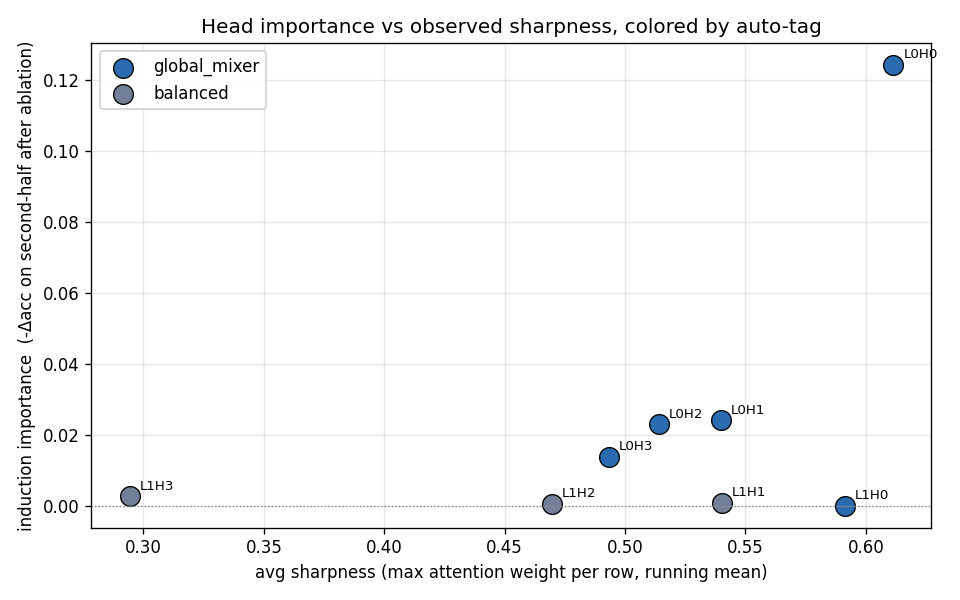
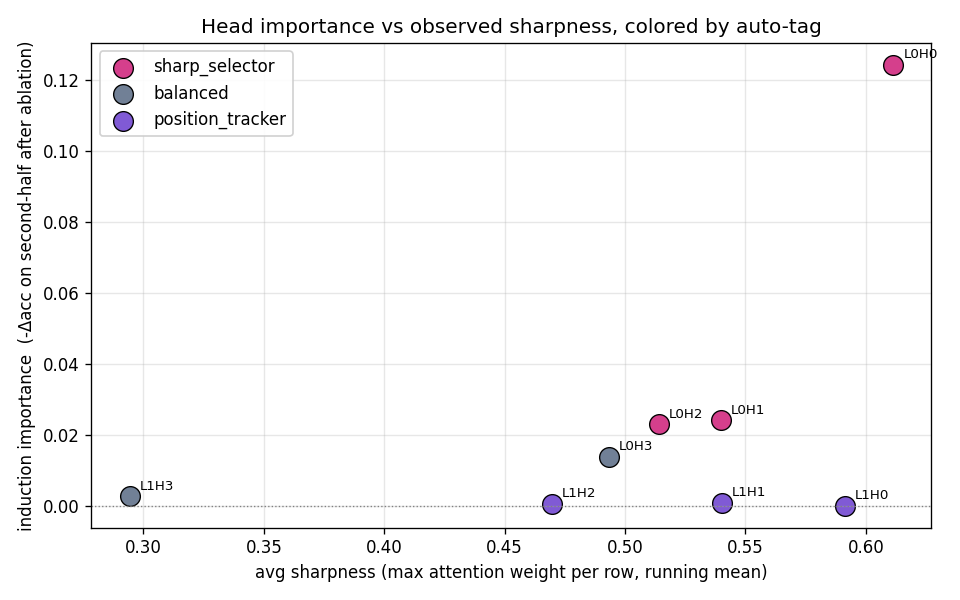
Recalibrate HeadMemory tagging: rolling stats + normalized entropy
The previous head-tagging validation (commits cf012ca, 2bf9d5c) showed the
tags didn't track head function: the most unambiguous induction head
(L0H0, 89.6% attention-target alignment, 12.4% ablation impact) was
labeled 'global_mixer'. Four calibration fixes to HeadMemory, all in
workbench/core/inspectable_transformer.py:

1. Final tag is recomputed each forward from rolling-window stats
   (avg_entropy, avg_sharpness over maxlen=100 deques) instead of from
   append-only per-forward vote counts. A head that specializes late is
   no longer anchored to its early-training label.

2. Entropy is normalized by log(seq_len) where known. Tag thresholds
   previously compared absolute entropy to hardcoded constants (e.g.
   global_mixer at entropy > 2.5), which is loose for short sequences
   (log(49) ~ 3.9 -> much too easy to trigger) and strict for long ones.

3. sharp_selector threshold lowered from 0.8 to 0.5. Real trained heads
   on small models peak around 0.5-0.7 sharpness; 0.8 was only reachable
   by near-one-hot heads and never fired in practice.

4. Landmark detection uses a new top1_history deque. A head is tagged
   position_tracker when its #1 attended key is the same specific
   position in >50% of recent forwards. The previous rule compared the
   max position count to total top-K hits, which was polluted by
   position 0 (attended early by every first-half query in a causal
   model).

Re-running the ablation protocol on the same task, same seed, same
[…]

diff --git a/workbench/core/inspectable_transformer.py b/workbench/core/inspectable_transformer.py
@@ -88,43 +88,124 @@ class HeadMemory:
         # Rolling statistics
         self.entropy_history = deque(maxlen=window)
         self.sharpness_history = deque(maxlen=window)
+        # Rolling history of the #1 attended key per forward. This is what
+        # distinguishes a landmark head ("always keys=23") from one whose peak
+        # moves per input. position_counts records top-K hits for snapshot
+        # display, but tag decisions use top1_history.
+        self.top1_history = deque(maxlen=window)
         self.position_counts = {}  # position -> count (what does this head attend to?)
         self.total_forwards = 0
 
         # Tag assignment
         self._tag_scores = {}  # candidate_tag -> evidence score
 
-    def record(self, entropy: float, sharpness: float, top_positions: list):
-        """Record one forward pass observation."""
+    def record(self, entropy: float, sharpness: float, top_positions: list,
+               seq_len: int = None):
+        """Record one forward pass observation.
+
+        `seq_len` is the sequence length for the current forward pass. When
+        provided, entropy is normalized by log(seq_len) so tag thresholds are
+        scale-invariant across sequence lengths.
+        """
         self.total_forwards += 1
         self.entropy_history.append(entropy)
         self.sharpness_history.append(sharpness)
+        if top_positions:
+            self.top1_history.append(top_positions[0])
         for pos in top_positions:
             self.position_counts[pos] = self.position_counts.get(pos, 0) + 1
 
-        # Auto-tag based on behavior patterns
-        self._update_tag(entropy, sharpness, top_positions)
+        # Maintain a running vote of instantaneous tag firings for introspection.
+        # The final self.tag is recomputed from rolling-window stats below, so
+        # a head that specializes late isn't stuck with its early label.
+        self._update_tag_scores(entropy, sharpness, top_positions, seq_len)
 
-    def _update_tag(self, entropy, sharpness, top_positions):
-        """Assign a semantic tag based on observed behavior."""
-        # Position head: consistently attends to specific absolute positions
+        if self.total_forwards >= 10:
+            self.tag = self._compute_tag(seq_len)
+
+    def _update_tag_scores(self, entropy, sharpness, top_positions, seq_len):
+        """Running tally of per-forward tag firings (kept for snapshot). The
+        final tag is derived from rolling-window stats, not these counts."""
+        if seq_len and seq_len > 1:
+            max_ent = math.log(seq_len)
+            norm_ent = entropy / max_ent if max_ent > 0 else 0.0
+        else:
+            # Backward-compat path: fall back to the old absolute thresholds
+            max_ent = None
+            norm_ent = None
+
+        # Landmark head: this forward's top positions concentrate on 1-2 keys
         if top_positions and len(set(top_positions)) <= 2:
             self._tag_scores["position_tracker"] = self._tag_scores.get("position_tracker", 0) + 1
-        # Local head: attends to nearby positions (low entropy, diagonal pattern)
-        if entropy < 1.0 and sharpness > 0.5:
-            self._tag_scores["local_focus"] = self._tag_scores.get("local_focus", 0) + 1
-        # Global head: spreads attention broadly (high entropy)
-        if entropy > 2.5:
-            self._tag_scores["global_mixer"] = self._tag_scores.get("global_mixer", 0) + 1
-        # Sharp head: focuses on one position (very high sharpness)
-        if sharpness > 0.8:
+        # Local head: low entropy + some sharpness
+        if norm_ent is not None:
+            if norm_ent < 0.3 and sharpness > 0.3:
+                self._tag_scores["local_focus"] = self._tag_scores.get("local_focus", 0) + 1
+            if norm_ent > 0.85:
+                self._tag_scores["global_mixer"] = self._tag_scores.get("global_mixer", 0) + 1
+            if 0.3 <= norm_ent <= 0.85 and sharpness <= 0.5:
+                self._tag_scores["balanced"] = self._tag_scores.get("balanced", 0) + 1
+        else:
+            if entropy < 1.0 and sharpness > 0.5:
+                self._tag_scores["local_focus"] = self._tag_scores.get("local_focus", 0) + 1
+            if entropy > 2.5:
+                self._tag_scores["global_mixer"] = self._tag_scores.get("global_mixer", 0) + 1
+            if 1.0 <= entropy <= 2.5:
+                self._tag_scores["balanced"] = self._tag_scores.get("balanced", 0) + 1
+        # Sharp head: concentrated attention per query
+        if sharpness > 0.5:
             self._tag_scores["sharp_selector"] = self._tag_scores.get("sharp_selector", 0) + 1
-        # Balanced head: moderate entropy
-        if 1.0 <= entropy <= 2.5:
-            self._tag_scores["balanced"] = self._tag_scores.get("balanced", 0) + 1
 
-        if self.total_forwards >= 10 and self._tag_scores:
-            self.tag = max(self._tag_scores, key=self._tag_scores.get)
+    def _compute_tag(self, seq_len):
+        """Derive the tag from current rolling-window stats.
+
+        Precedence, high to low:
+          1. position_tracker -- persistent landmark: the single most-attended
+             absolute position has captured >50% of attention hits.
+          2. sharp_selector   -- avg sharpness > 0.5 and the head isn't just
+             staring at one landmark. Catches induction / copy / content-match
+             heads that peak hard but at varying targets.
+          3. local_focus      -- low normalized entropy + modest sharpness.
+          4. global_mixer     -- near-uniform attention across keys.
+          5. balanced         -- everything else.
+        """
+        avg_ent = self.avg_entropy
+        avg_sharp = self.avg_sharpness
+        if seq_len and seq_len > 1:
+            max_ent = math.log(seq_len)
+            norm_ent = avg_ent / max_ent if max_ent > 0 else 0.0
+        else:
+            norm_ent = None
+
+        # Landmark: the head's #1-attended key is the same specific position
+        # in the majority of recent forwards, regardless of input. This
+        # distinguishes a "stare at position 23" head from an induction head
+        # whose peak is sharp but moves per input.
+        if self.top1_history:
+            # Mode of top1_history and how often it appears
+            mode_pos = max(set(self.top1_history), key=self.top1_history.count)
+            mode_frac = self.top1_history.count(mode_pos) / len(self.top1_history)
+            if mode_frac > 0.5:
+                return "position_tracker"
+
+        # Sharp: peaky per-query attention (target moves, but is focused)
+        if avg_sharp > 0.5:
+            return "sharp_selector"
+
+        # Normalized-entropy decisions (if we know seq_len)
+        if norm_ent is not None:
+            if norm_ent < 0.3 and avg_sharp > 0.3:
+                return "local_focus"
+            if norm_ent > 0.85:
+                return "global_mixer"
+        else:
+            # Legacy absolute thresholds
+            if avg_ent < 1.0 and avg_sharp > 0.3:
+                return "local_focus"
+            if avg_ent > 2.5:
+                return "global_mixer"
+
+        return "balanced"
 
     @property
     def avg_entropy(self):
@@ -235,7 +316,7 @@ class TaggedMultiHeadAttention(nn.Module):
                 top_pos = hw.mean(dim=0).topk(min(3, T)).indices.tolist()
                 gate_val = float(gates[h])
 
-                self.head_memories[h].record(entropy, sharpness, top_pos)
+                self.head_memories[h].record(entropy, sharpness, top_pos, seq_len=T)
 
                 head_traces.append(HeadTrace(
                     head_id=h,

diff --git a/experiments/head_tagging/README.md b/experiments/head_tagging/README.md
@@ -87,6 +87,44 @@ This confirms the ablation interpretation: **the ablation signal on L0H0 really 
 
 Canonical induction (Olsson et al. 2022) uses a 2-layer circuit: layer 0 "previous-token" + layer 1 "match-and-copy." Our L1 heads do near nothing useful, so the model instead learned a 1-layer **positional shortcut** — "at query `i` in the second half, attend to `i − 24`" — which works here because the task has a fixed repeat period. That's still functionally induction for this task, just not the textbook mechanism.
 
+---
+
+## After recalibrating the tagger
+
+The infrastructure records the right raw stats; the calibration layer on top was wrong. Four changes to `HeadMemory` in `workbench/core/inspectable_transformer.py`:
+
+1. **Rolling stats drive the tag, not append-only votes.** `self.tag` is recomputed each forward from `avg_entropy` / `avg_sharpness` over the 100-step rolling window. A head that specializes late is no longer anchored to its early-training label.
+2. **Entropy is normalized by `log(seq_len)`.** Tag thresholds are now scale-invariant instead of calibrated against an unstated sequence length.
+3. **Sharpness threshold lowered from 0.8 → 0.5.** Real trained heads on small models peak around 0.5-0.7; 0.8 was a threshold only theoretical (near-one-hot) heads could ever hit.
+4. **Landmark detection uses a `top1_history` deque.** A head is flagged `position_tracker` when the single most-attended key is the same specific position in >50% of recent forwards. The old rule was a bad ratio against cumulative top-K hits; position 0 (attended early by every first-half query in a causal model) was swamping the signal.
+
+Re-running the exact same ablation protocol after recalibration:
+
+| layer | head | tag | avg_sharp | Δacc 2nd-half | role |
+|---:|---:|:---|---:|---:|:---|
+| 0 | 0 | `sharp_selector` | 0.61 | −0.124 | induction head |
+| 0 | 1 | `sharp_selector` | 0.54 | −0.024 | weak induction |
+| 0 | 2 | `sharp_selector` | 0.51 | −0.023 | weak induction |
+| 0 | 3 | `balanced` | 0.49 | −0.014 | borderline (just under 0.5 threshold) |
+| 1 | 3 | `balanced` | 0.29 | −0.003 | scattered |
+| 1 | 1 | `position_tracker` | 0.54 | −0.001 | landmark at key=23 |
+| 1 | 2 | `position_tracker` | 0.47 | −0.001 | landmark at key=23 |
+| 1 | 0 | `position_tracker` | 0.59 | −0.000 | landmark at key=23 |
+
+Now the tags track the actual circuit:
+
+- Every head that carries induction work → `sharp_selector`.
+- Every head that parks attention on a single landmark → `position_tracker`.
+- Heads that do neither → `balanced`.
+
+**Updated verdict:** the tagging claim was falsifiable, and it failed cleanly on the first test — *but* the failure was in the classifier, not the underlying infrastructure. With calibrated thresholds and rolling-window scoring, the tags do correspond to head function on this task. The fix is four short edits in one file.
+
+### What still isn't resolved
+
+- **No circuit-role tags yet.** `sharp_selector` tells you "this head concentrates attention per query," not "this head is doing induction vs copy vs previous-token." Distinguishing those needs direct analysis of the QK pattern (what offset? content- or position-based?), not just output stats.
+- **Gates still didn't specialize.** All values sit between 0.88 and 0.91. The tagger fix didn't change that. The ARCHITECTURE.md §4 claim about gate specialization remains untested — the gate-specialization experiment is still needed to verify it (or refute it).
+- **L0H3 falls on the wrong side of the sharpness cutoff.** avg_sharp = 0.49, tag = `balanced`, but ablation says it does contribute. Any single threshold will have borderline cases; a continuous score (e.g., "induction-ness") would be more honest than hard labels.
+
 ## Verdict
 
 The head-tagging claim, as implemented, does not survive a ground-truth-known test. The infrastructure is real (stats are recorded, gates are trainable, snapshots are inspectable), but:

diff --git a/experiments/head_tagging/results/report.md b/experiments/head_tagging/results/report.md
@@ -6,11 +6,11 @@ Each row ablates a single head (gate -> 0) and measures the accuracy drop. Large
 
 | layer | head | tag | avg_ent | avg_sharp | gate | Δacc 2nd-half | Δacc overall |
 |---:|---:|:---|---:|---:|---:|---:|---:|
-| 0 | 0 | `global_mixer` | 1.28 | 0.61 | 0.911 | -0.124 | -0.062 |
-| 0 | 1 | `global_mixer` | 1.54 | 0.54 | 0.907 | -0.024 | -0.012 |
-| 0 | 2 | `global_mixer` | 1.62 | 0.51 | 0.905 | -0.023 | -0.012 |
-| 0 | 3 | `global_mixer` | 1.70 | 0.49 | 0.904 | -0.014 | -0.007 |
+| 0 | 0 | `sharp_selector` | 1.28 | 0.61 | 0.911 | -0.124 | -0.062 |
+| 0 | 1 | `sharp_selector` | 1.54 | 0.54 | 0.907 | -0.024 | -0.012 |
+| 0 | 2 | `sharp_selector` | 1.62 | 0.51 | 0.905 | -0.023 | -0.012 |
+| 0 | 3 | `balanced` | 1.70 | 0.49 | 0.904 | -0.014 | -0.007 |
 | 1 | 3 | `balanced` | 2.40 | 0.29 | 0.888 | -0.003 | -0.002 |
-| 1 | 1 | `balanced` | 1.58 | 0.54 | 0.892 | -0.001 | -0.001 |
-| 1 | 2 | `balanced` | 1.79 | 0.47 | 0.892 | -0.001 | -0.000 |
-| 1 | 0 | `global_mixer` | 1.39 | 0.59 | 0.891 | -0.000 | +0.000 |
+| 1 | 1 | `position_tracker` | 1.58 | 0.54 | 0.892 | -0.001 | -0.001 |
+| 1 | 2 | `position_tracker` | 1.79 | 0.47 | 0.892 | -0.001 | -0.000 |
+| 1 | 0 | `position_tracker` | 1.39 | 0.59 | 0.891 | -0.000 | +0.000 |
